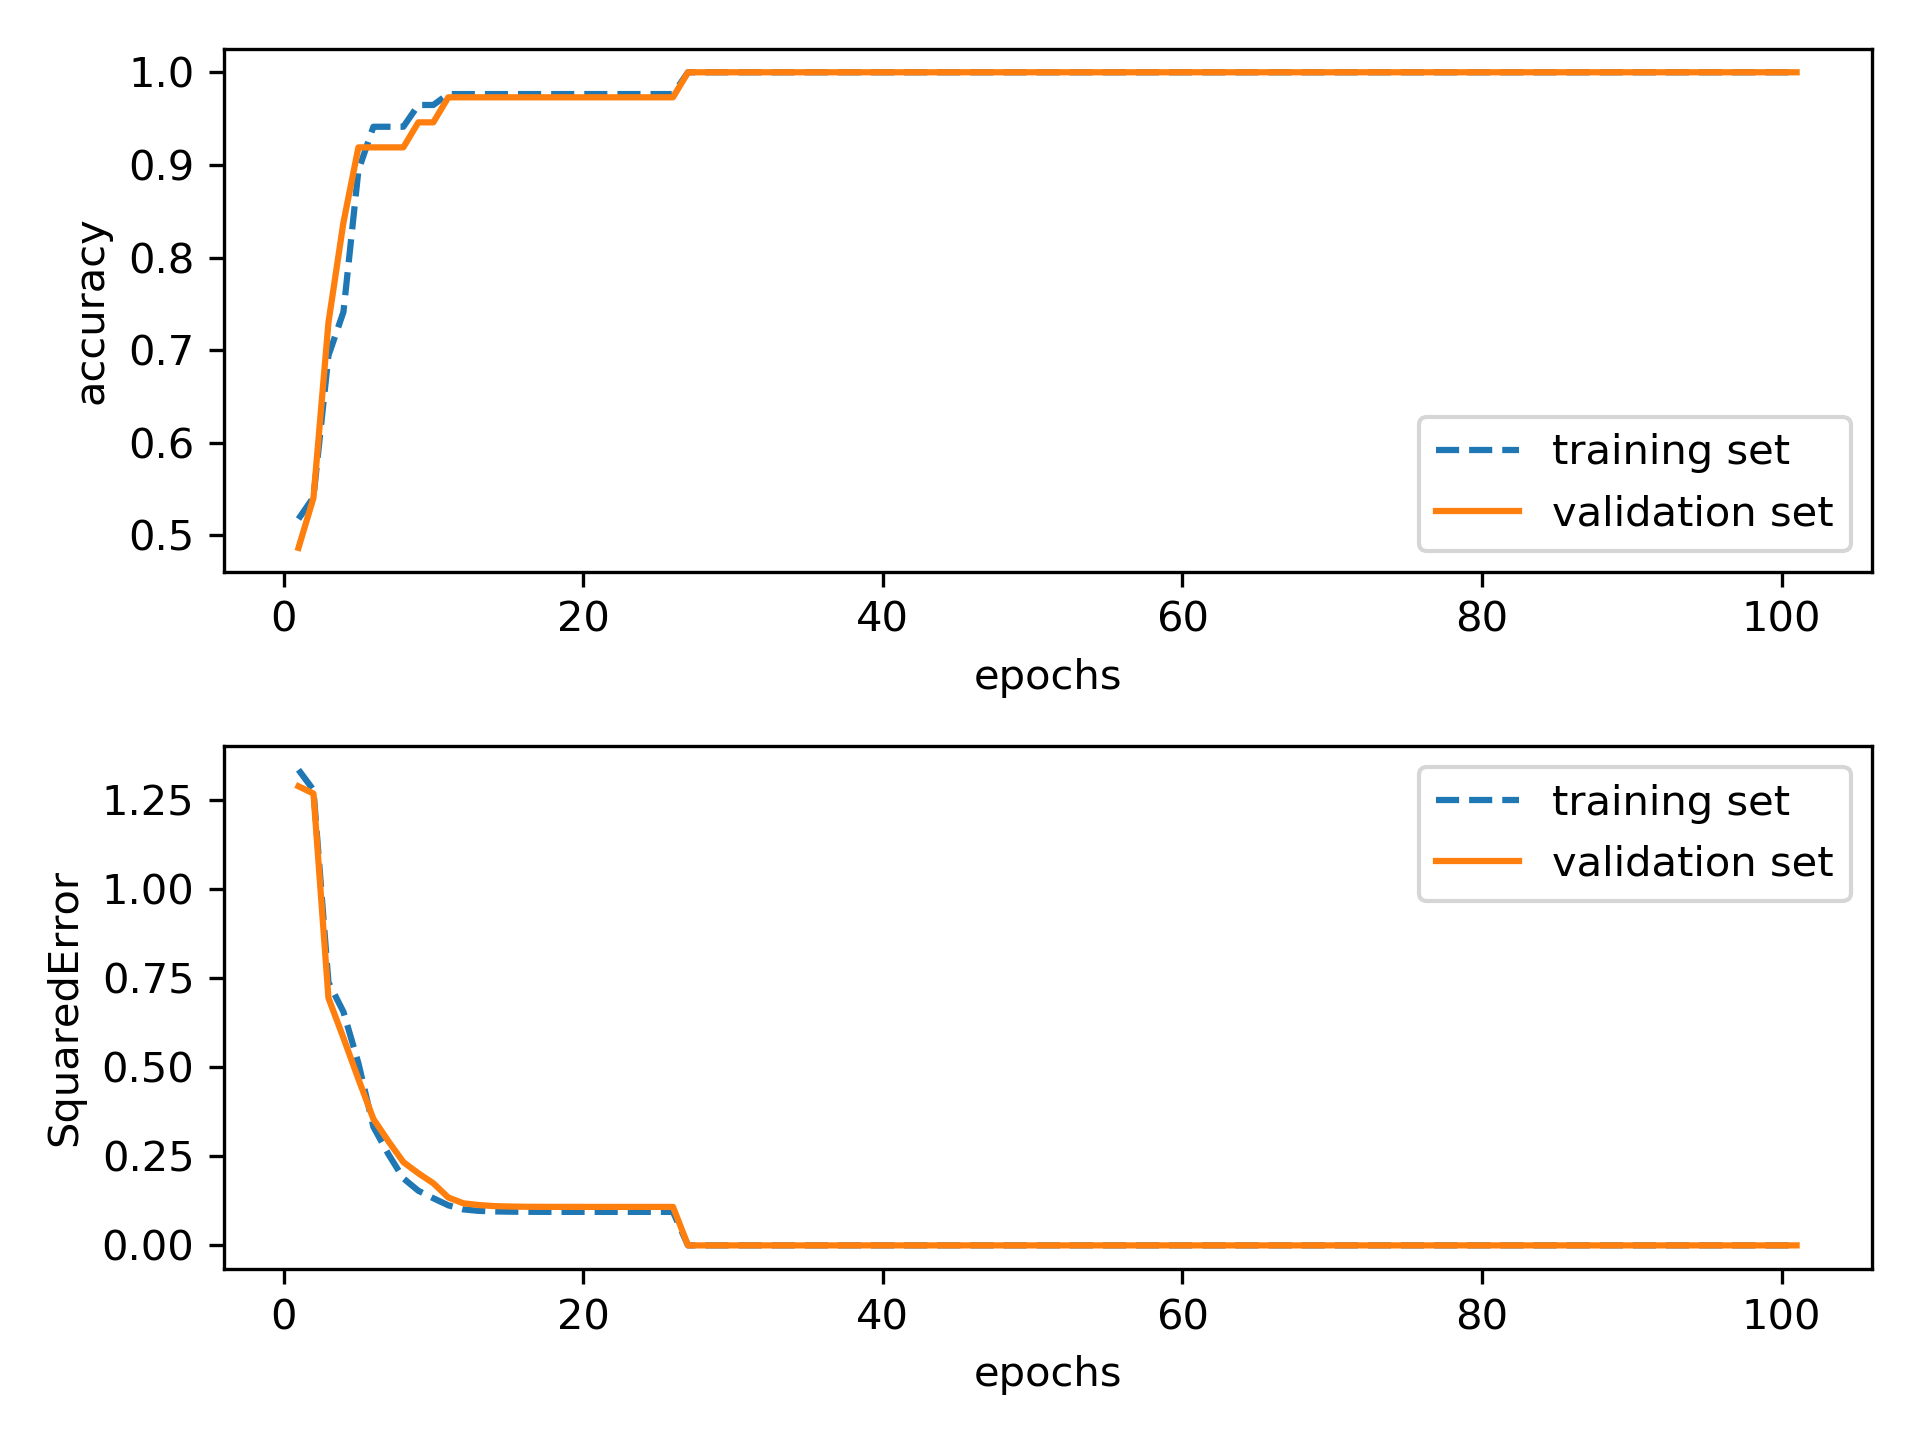
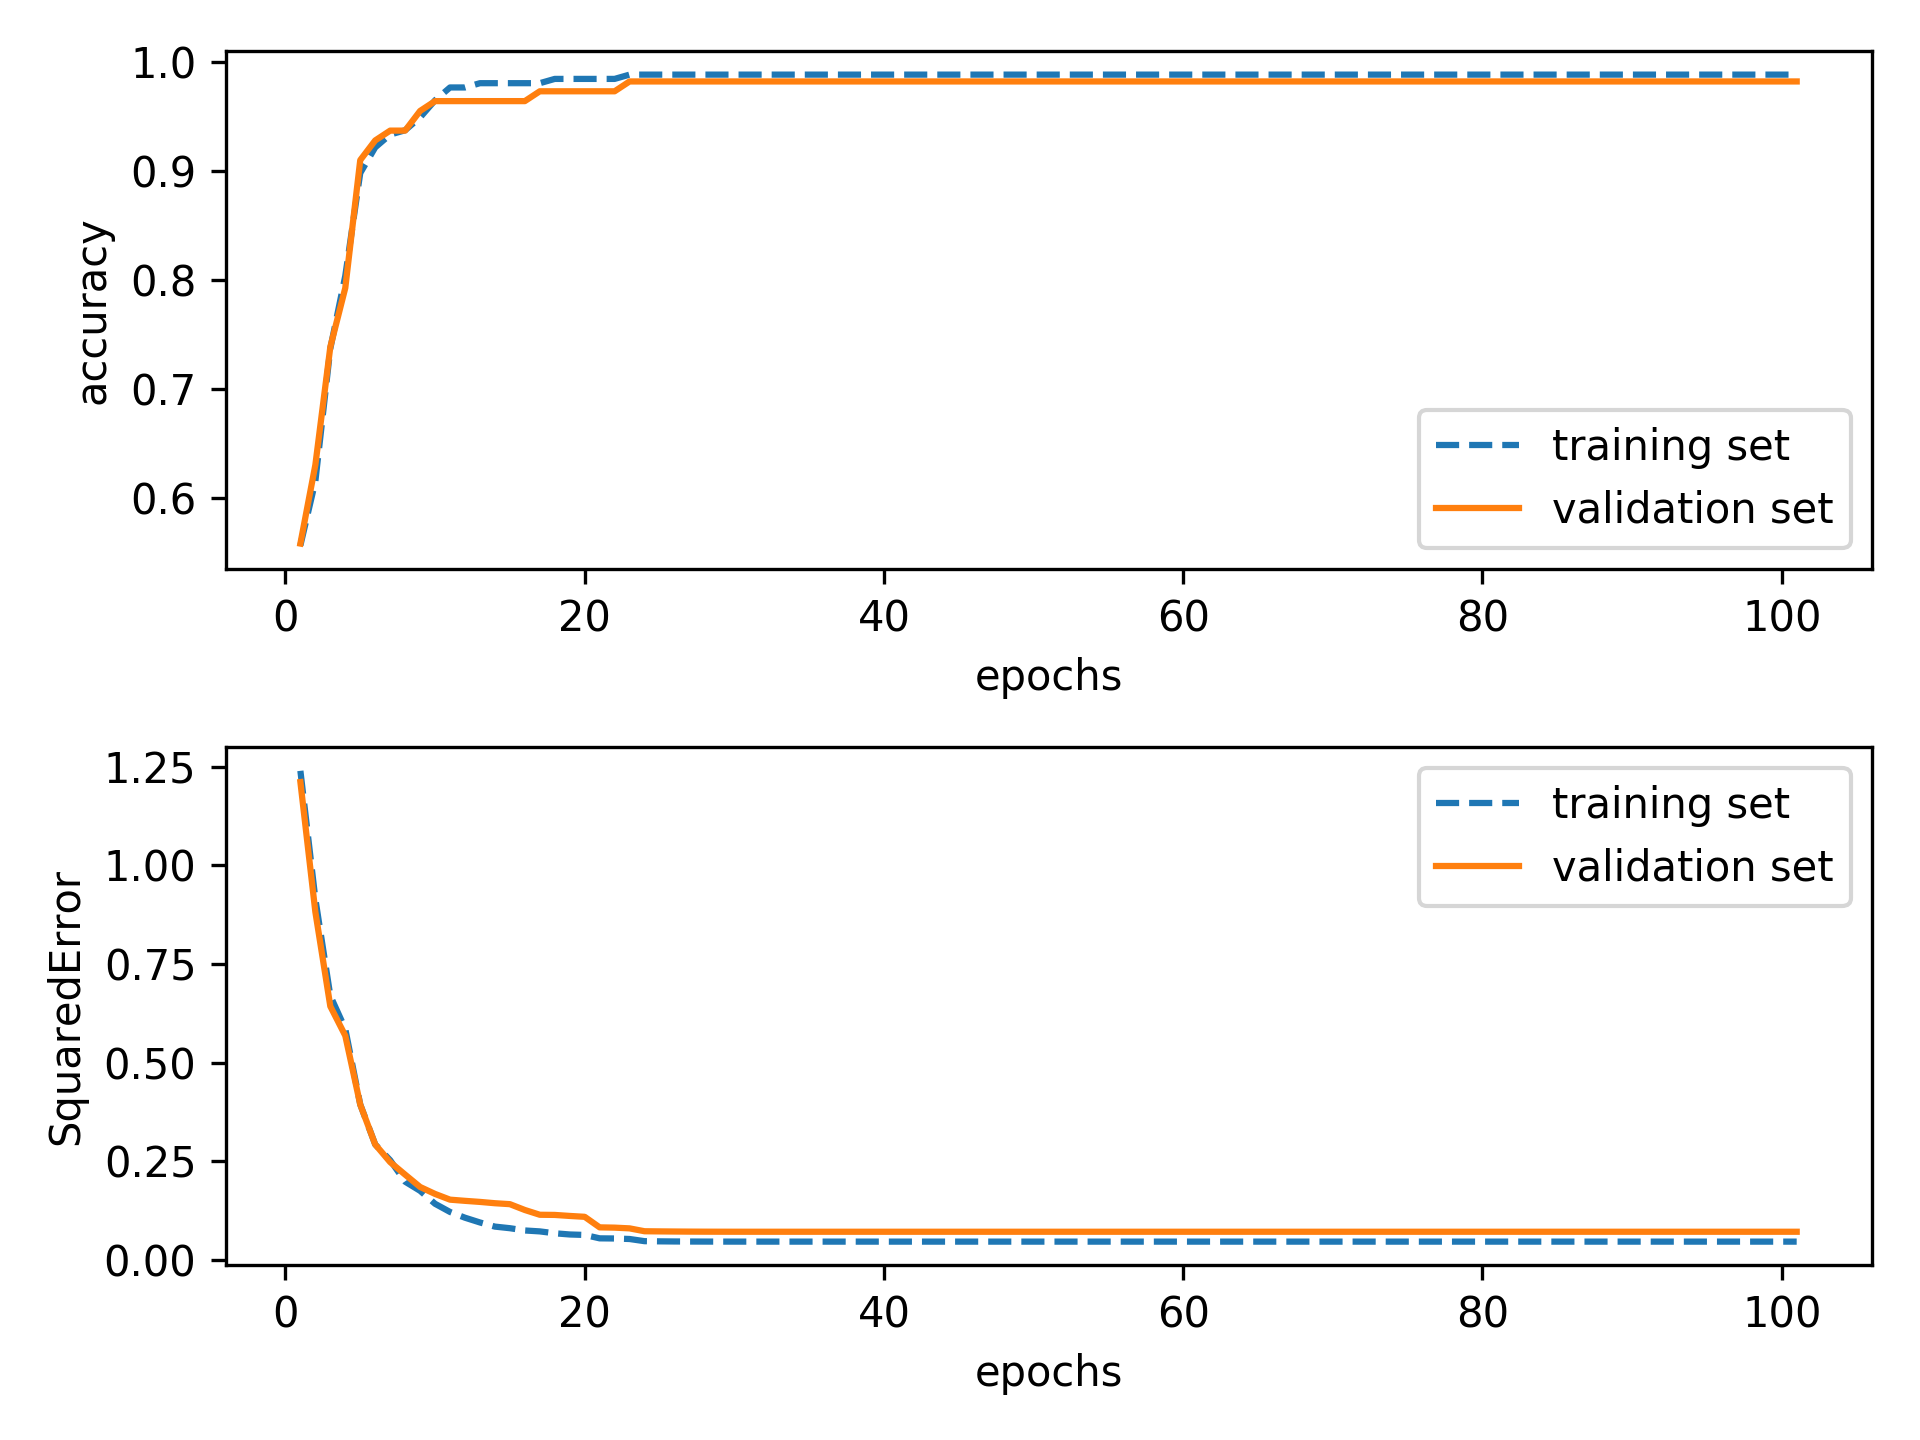
fixed final plot

diff --git a/src/Validation_CM.py b/src/Validation_CM.py
@@ -145,11 +145,12 @@ def grid_search_CM(parameter, loss_obj, tr_patterns, tr_labels, vl_patterns,vl_l
 
                             # eventually pad vector
                             diff = squared_error_average.shape[0] - squared_error.shape[0]
+                            squared_error = np.pad(squared_error,(0,diff),'constant',constant_values=(squared_error[-1]))
+                            misClass_error = np.pad(misClass_error,(0,diff),'constant',constant_values=(misClass_error[-1]))
 
-                            squared_error = np.pad(squared_error,(0,diff),'constant',constant_values=(0.0,0.0))
-                            misClass_error = np.pad(misClass_error,(0,diff),'constant',constant_values=(0.0,0.0))
-                            squared_error_validation = np.pad(squared_error_validation,(0,diff),'constant',constant_values=(0.0,0.0))
-                            misClass_error_validation = np.pad(misClass_error_validation,(0,diff),'constant',constant_values=(0.0,0.0))
+                            diff = squared_error_validation_average.shape[0] - squared_error_validation.shape[0]
+                            squared_error_validation = np.pad(squared_error_validation,(0,diff),'constant',constant_values=(squared_error_validation[-1]))
+                            misClass_error_validation = np.pad(misClass_error_validation,(0,diff),'constant',constant_values=(misClass_error_validation[-1]))
 
                             # append result of single epoch in list previously created
                             squared_error_average += squared_error

diff --git a/src/CM.py b/src/CM.py
@@ -28,14 +28,14 @@ def main():
     c_1 = [0.0001]
     c_2 = [0.9]
     theta = [0.9]
-    reguralization = [0.0, 0.01]
+    reguralization = [0.0]
     m = [50]
     epochs = 100
     lossObject = SquaredError("tangentH")
     parameter = grid_search_CM_parameter(c_1,c_2,theta,reguralization,m,epochs,arch,neuronsType)
     # perform grid search
     grid_search_CM(parameter,lossObject,training_patterns,training_labels,validation_patterns,validation_labels,
-                   n_trials=1,save_in_dir="../temp/new-")
+                   n_trials=3,save_in_dir="../temp/new-")
 
     # try BFGS
     #tr_l, tr_ac, vl_l, vl_ac = network.trainBFGS(training_patterns, training_labels, validation_patterns, validation_labels,
